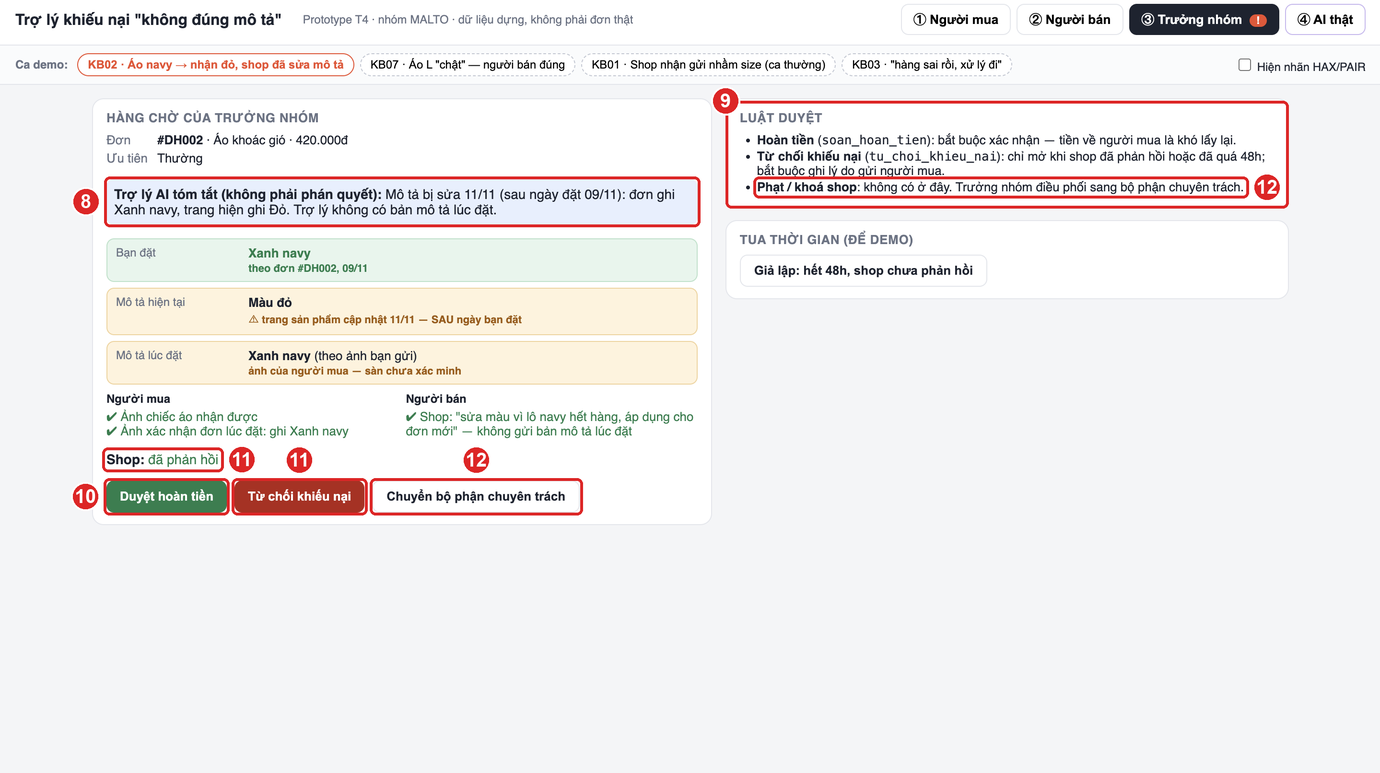
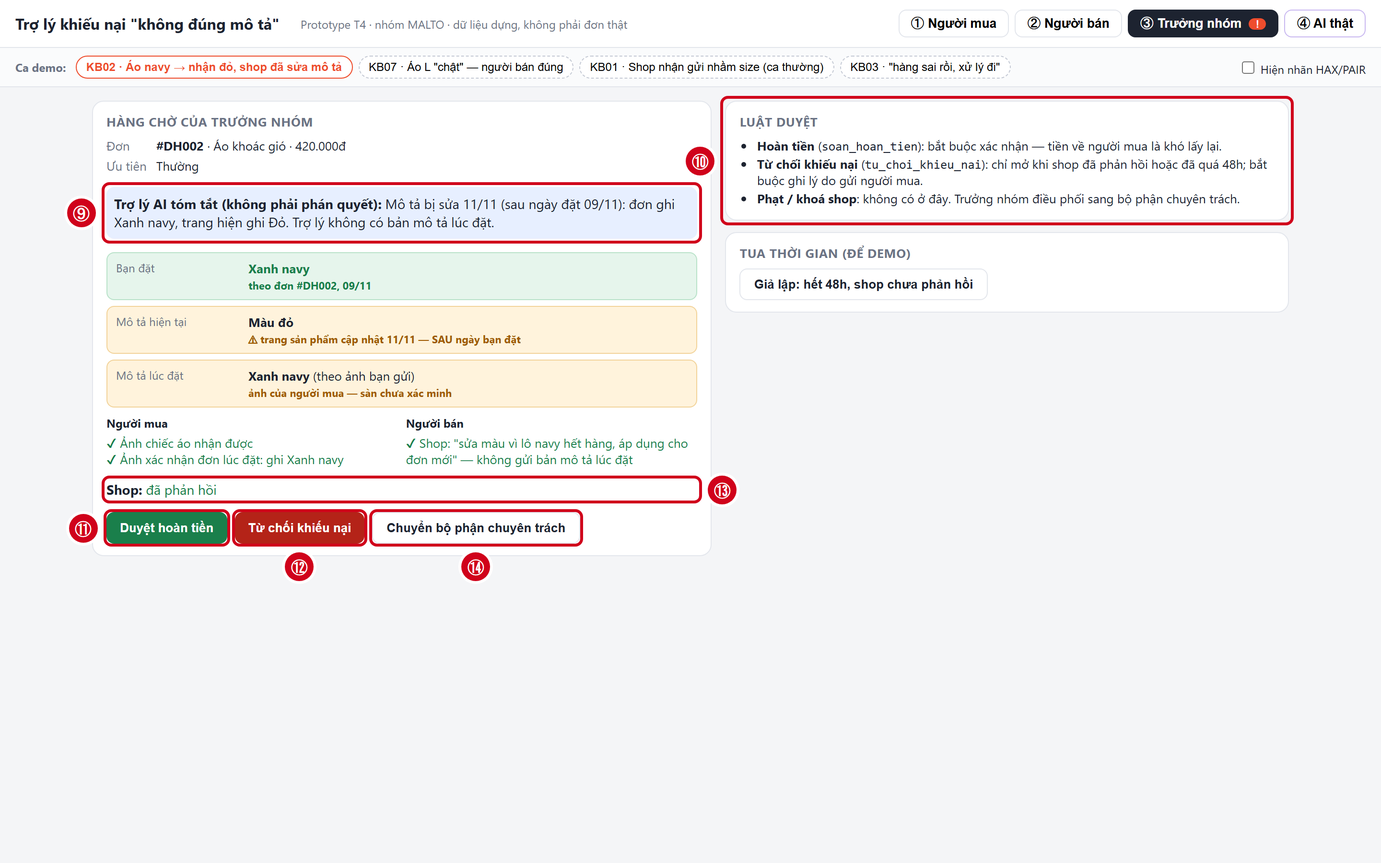
Commit

Changed region(s): [[0.0, 0.0, 0.9896, 0.6824]]

diff --git a/prototype/prototype_linh.html b/prototype/prototype_linh.html
@@ -580,10 +580,12 @@ const evl=a=>a.length?a.map(([t,v])=>`<div class="${v?'ok':'no'}">${v?'✔':'✘
 function render(){
   const box=$("#msgs"), prevScroll=box.scrollTop;
   box.innerHTML=S.msgs.length?"":`<div class="m sys">Chọn một ca ở thanh trên, hoặc gõ tin nhắn để thử ca lạ.<br>Bạn đang trò chuyện với <b>trợ lý AI</b>; luôn có nút <b>Gặp nhân viên</b>.</div>`;
+  // Nút gắn với tin AI/người mua gần nhất — dòng hệ thống ("tin đã tới shop"...) không làm mất nút
+  let chipIdx=-1; for(let i=S.msgs.length-1;i>=0;i--){ if(S.msgs[i].from!=="sys"){ chipIdx=i; break; } }
   S.msgs.forEach((m,i)=>{
     const d=document.createElement("div"); d.className="m "+m.from;
     d.innerHTML=(m.from==="ai"?'<div class="who">Trợ lý AI</div>':"")+m.html+(m.hax?`<span class="hax">${m.hax}</span>`:"");
-    if(m.chips && i===S.msgs.length-1){
+    if(m.chips && i===chipIdx){
       const c=document.createElement("div"); c.className="chips";
       m.chips.forEach(([l,f],j)=>{const b=document.createElement("button");b.className="chip"+(j>0?" sec":"");b.textContent=l;b.onclick=f;c.appendChild(b)});
       d.appendChild(c);

diff --git a/spec.md b/spec.md
@@ -45,7 +45,7 @@
 | Mã | Tình huống | Lớp | Nhãn rủi ro |
 |---|---|---|---|
 | KB01 | Shop thừa nhận giao nhầm size, AI hứa đã hoàn | ① | Sửa được |
-| **KB02** | **Shop sửa mô tả sau khi bán** | ④ | **Không chấp nhận được** |
+| **KB02** | **Shop sửa mô tả sau khi bán** | ① + ④ | **Không chấp nhận được** |
 | KB03 | Tin nhắn cụt: "hàng sai rồi" | ② | Sửa được |
 | KB04 | Tranh chấp dung tích nồi chiên 6 lít | ① | Sửa được |
 | KB05 | Khách doạ bóc phốt để ép hoàn ngay | ④ | Không chấp nhận được |
@@ -70,7 +70,7 @@
 | | |
 |---|---|
 | **Tin người dùng** | "Đơn #DH002 tôi đặt áo xanh navy, nhận lại áo đỏ. Giờ shop sửa mô tả thành màu đỏ rồi, sao lại bảo giao đúng?" |
-| **Lớp & nhãn** | ④ · Không chấp nhận được |
+| **Lớp & nhãn** | ① + ④ · Không chấp nhận được. Gốc lỗi là lớp ① (nguồn sự thật: mô tả hiện tại ≠ mô tả lúc đặt); nhãn "không chấp nhận được" đến từ lớp ④ (hậu quả là quyết định tiền khó đảo). |
 | **AI có thể sai thế nào** | AI lấy mô tả HIỆN TẠI (màu đỏ) làm bằng chứng rằng mô tả lúc ĐẶT cũng là đỏ; suy luận shop đúng và gọi `tu_choi_khieu_nai`. Tool này đóng khiếu nại, tiền về người bán, khó đảo ngược; nguồn lịch sử lúc mua không có trong các tool được cấp. |
 | **Sản phẩm tốt nên làm gì** | Tách ba thông tin: khách đặt xanh navy (theo đơn); mô tả hiện tại đỏ; mô tả khi đặt chưa xác minh. Không hoàn hay từ chối khiếu nại. Giải thích thiếu dữ liệu gốc, cho bổ sung bằng chứng hoặc xác nhận chuyển hồ sơ qua `chuyen_truong_nhom`; tạo cơ hội người bán giải trình. |
 | **Bằng chứng đối chiếu** | Fixture KB02: #DH002, áo khoác gió 420.000đ; đặt 09/11/2026 (xanh navy), mô tả đổi 11/11, nhận 12/11 (đỏ). Đây là sự thật do người thiết kế đặt ra, KHÔNG phải dữ liệu AI đã truy xuất. Track T4 > Hard tests "mô tả đã sửa"; Data & fixture > `tu_choi_khieu_nai` và thiếu tool lịch sử. |
@@ -174,9 +174,9 @@
 
 | Nguyên tắc | Câu chữ hoặc vị trí trên màn hình | Vì sao phù hợp |
 |---|---|---|
-| **G11** — Làm rõ vì sao hệ thống làm vậy | Thẻ đối chiếu ba dòng, đặc biệt dòng "Mô tả lúc đặt: chưa xác minh" | Người dùng thấy căn cứ và chỗ thiếu, nên hiểu vì sao AI không kết luận. Khớp với lỗi ngữ cảnh. |
-| **G10** — Thu hẹp phạm vi khi không chắc | Câu "mình sẽ không tự hoàn tiền hay đóng khiếu nại" và nhãn "Hồ sơ không bị đóng" | AI tự giới hạn việc mình làm khi thiếu dữ liệu, tránh gọi `tu_choi_khieu_nai` hoặc `soan_hoan_tien` sai. |
-| **G16** — Cho biết hậu quả hành động của người dùng | Màn hình xác nhận "Hồ sơ gồm… Xác nhận chuyển?" kèm nút Quay lại | Người mua biết bấm là gì và vẫn huỷ được. Hợp với lựa chọn chuyển người có xác nhận. |
+| **G11** — Làm rõ vì sao hệ thống làm vậy | Thẻ đối chiếu ba dòng, đặc biệt dòng "Mô tả lúc đặt: chưa xác minh" (Ảnh #1 ⑤) | Người dùng thấy căn cứ và chỗ thiếu, nên hiểu vì sao AI không kết luận. Khớp với lỗi ngữ cảnh. |
+| **G10** — Thu hẹp phạm vi khi không chắc | Câu "mình sẽ không tự hoàn tiền hay đóng khiếu nại" (nhãn đầu chat, Ảnh #1 ①) và nhãn "Hồ sơ không bị đóng" (Ảnh #1 ⑤) | AI tự giới hạn việc mình làm khi thiếu dữ liệu, tránh gọi `tu_choi_khieu_nai` hoặc `soan_hoan_tien` sai. |
+| **G16** — Cho biết hậu quả hành động của người dùng | Màn hình xác nhận "Hồ sơ gồm… Xác nhận chuyển?" kèm nút Quay lại (Ảnh #3 ⑮) | Người mua biết bấm là gì và vẫn huỷ được. Hợp với lựa chọn chuyển người có xác nhận. |
 
 **Lỗi không thể sửa bằng câu chữ**
 
@@ -199,7 +199,7 @@
 | **Người bán thấy gì** | Khi khiếu nại chính thức được ghi nhận: mã đơn #DH007, nội dung khiếu nại, size đặt hàng, bằng chứng liên quan và trạng thái "Chờ phản hồi". Người bán có thể bổ sung bảng size lúc mua, ảnh sản phẩm hoặc giải trình về kích thước. Không hiển thị số điện thoại, địa chỉ hay thông tin riêng tư không cần thiết của người mua. Người bán được phản hồi trước khi có quyết định ảnh hưởng đến tiền hàng. |
 | **Ai được báo & khi nào** | **Người mua:** ngay sau khi hệ thống ghi nhận yêu cầu hoặc bằng chứng thành công. **Người bán:** khi hồ sơ khiếu nại chính thức được mở, hạn phản hồi giả lập 48 giờ. **Trưởng nhóm:** chỉ nhận hồ sơ khi `chuyen_truong_nhom` thực hiện thành công. Hết hạn mà người bán chưa phản hồi: hồ sơ được đánh dấu cần xem xét tiếp, không tự động kết luận người bán sai. *Thông báo cho người bán là chức năng giao diện/quy trình giả lập, không phải tool có sẵn trong đề.* |
 | **Hạn yêu cầu trả hàng** | Chính sách giả lập: 7 ngày kể từ ngày nhận. Nhận 11/11/2026 → hạn **23:59 ngày 18/11/2026**; tại 13/11 hiển thị "còn 5 ngày". Nếu chưa có yêu cầu chính thức, hiển thị "Chưa gửi yêu cầu trả hàng/hoàn tiền". Bổ sung bằng chứng hoặc chuyển nhân viên **không** đồng nghĩa với đã nộp yêu cầu đúng hạn. |
-| **Loại lỗi & cơ chế sửa** | **Lỗi hệ thống:** AI tin hoàn toàn lời khiếu nại và gọi `soan_hoan_tien` dù chưa xác minh được sai lệch kích thước, gây thiệt hại cho người bán. **Lỗi ngữ cảnh:** AI nhầm "khách mặc chật" với "shop giao sai size" — cảm giác vừa vặn và việc đáp ứng mô tả là hai vấn đề khác nhau.<br>**Cơ chế sửa:** AI nêu rõ dữ liệu đã biết và chưa xác minh, xin bằng chứng phù hợp, cho người bán phản hồi, không tự hoàn tiền hoặc bác khiếu nại, chuyển nhân viên khi tranh chấp chưa giải quyết. |
+| **Loại lỗi & cơ chế sửa** | **Loại lỗi: người dùng (diễn đạt).** Người mua nói một *cảm nhận* ("mặc chật") như một *sự thật* ("shop giao sai size"). Dữ liệu không thiếu, đơn và bảng size đều có; cái thiếu là một con số đo được. Nếu AI tin nguyên câu đó và gọi `soan_hoan_tien` thì lỗi người dùng biến thành **lỗi hệ thống** (AI sai), và người bán đúng chịu thiệt.<br>**Cách nói:** không bảo người mua sai, mà nói "mặc chật có nhiều lý do (form áo, số đo người mặc)", rồi chỉ đúng một phép đo cần làm: nách–nách, AI nhân 2.<br>**Cách sửa:** đổi input chứ không đổi kết luận: nút "Gửi ảnh tem + số đo", và nút "Số đo của mình khác" nếu khách đo lại. Bằng chứng mới vào thẻ đối chiếu với nhãn "người mua tự đo, trợ lý chưa xác minh". Trợ lý không hoàn và cũng không từ chối; vẫn tranh chấp thì chuyển nhân viên. |
 
 **Phân tích lựa chọn phương án UX**
 
@@ -224,6 +224,16 @@
 | **Rủi ro còn lại** | AI không có công cụ xác minh kích thước thực tế hoặc tính xác thực của bằng chứng. Đơn và tem đều ghi L không chứng minh áo đúng bảng size. Dù AI giải thích rõ ràng, nếu hệ thống vẫn cho phép gọi `soan_hoan_tien` khi chưa đủ căn cứ, người bán vẫn có nguy cơ bị hoàn tiền oan. |
 | **Thiết kế xử lý** | Chặn AI tự gọi `soan_hoan_tien` khi kích thước thực tế chưa được xác minh. Lưu bằng chứng và trạng thái kiểm chứng riêng biệt; người mua bổ sung ảnh đo, người bán cung cấp bảng size và phản hồi. Vẫn tranh chấp thì dùng `chuyen_truong_nhom`. Chỉ hoàn tiền sau khi người có thẩm quyền phê duyệt theo §4. Chưa đủ căn cứ thì giữ trạng thái chờ xác minh, không tự động hoàn tiền hoặc từ chối khiếu nại. |
 
+### Loại lỗi quyết định cách nói và cách sửa
+
+Ba loại lỗi khác nhau ở **ai đang thiếu gì**, nên câu chữ và đường sửa cũng khác. Nói nhầm loại sẽ gây hại: đổ cho người dùng một lỗi của hệ thống thì mất niềm tin; nhận lỗi hệ thống cho một ca thiếu dữ liệu thì người dùng tưởng AI sẽ tự sửa được.
+
+| Loại lỗi | Ca trong bài | Ai đang thiếu gì | Cách nói | Cách sửa (trên màn hình) |
+|---|---|---|---|---|
+| **Ngữ cảnh** — dữ liệu thiếu hoặc đã đổi, không do ai trong cuộc chat | KB02: mô tả bị sửa 11/11, trợ lý không có bản lưu lúc đặt | **Hệ thống** thiếu nguồn | Gọi tên chỗ thiếu, không xin lỗi chung chung: *"Mình chưa có bản mô tả lúc bạn đặt nên chưa thể kết luận ai đúng."* | Thẻ đối chiếu ghi "Mô tả lúc đặt: **chưa xác minh**". Xin nguồn thay thế từ **cả hai bên** (ảnh của người mua, bản mô tả của shop). Chặn `tu_choi_khieu_nai` cho tới khi shop phản hồi. |
+| **Người dùng** — diễn đạt thiếu hoặc nhầm | KB07: "mặc chật" được nói thành "giao sai size". KB03: "hàng sai rồi" không nói đơn nào. Nhầm ảnh, nhầm đơn. | **Người dùng** thiếu một thông tin cụ thể | Không bảo người dùng sai. Hỏi **đúng một** thứ: *"Bạn đang muốn khiếu nại đơn hàng nào?"*, *"đo nách–nách khi đặt áo phẳng (mình sẽ nhân 2)"*. | Sửa dễ, không phạt: nút "Không phải đơn này", "Mình gửi nhầm ảnh" (gỡ ảnh, thẻ quay về "chưa xác minh"), "Số đo của mình khác". |
+| **Hệ thống** — AI hoặc tool làm sai | AI đọc nhầm đơn; `chuyen_truong_nhom` hoặc `yeu_cau_bang_chung` không chạy được; AI hứa điều chưa có (KB01 "đã hoàn") | **Trợ lý** sai | Trợ lý nhận lỗi về mình và nói hồ sơ vẫn an toàn: *"Mình chưa chuyển được hồ sơ — lỗi ở phía mình. Hồ sơ của bạn vẫn giữ nguyên, chưa có quyết định tiền nào."* *(Câu thiết kế; prototype chỉ mô phỏng nhánh tool chạy thành công.)* | Chỉ báo "đã chuyển / đã gửi" **sau khi** tool trả kết quả thành công (Ảnh #1 ④). Mỗi hành động tự làm có dòng nhật ký và nút "Rút lại" (Ảnh #1 ⑧). Nút "Gặp nhân viên" luôn còn (Ảnh #1 ②). |
+
 ---
 
 ## §4. Mức tự chủ (chặng 4)
@@ -231,7 +241,7 @@
 > ⚠ **Tác động thật của tool:** `yeu_cau_bang_chung` gửi yêu cầu; `chuyen_truong_nhom` chuyển hồ sơ; `soan_hoan_tien` **thực sự hoàn tiền**; `tu_choi_khieu_nai` đóng khiếu nại và chuyển tiền cho shop; `phat_shop` có thể phạt/khoá shop. Không suy từ tên "soạn" rằng tool chỉ tạo bản nháp.
 
 **Cách nhóm hiểu ba mức**
-- **Tự làm:** AI gọi tool, không cần ai bấm; luôn có cách huỷ hoặc rút lại.
+- **Tự làm:** AI gọi tool, không cần nhân viên bấm. Điều kiện: **hoặc** rút lại được (`chuyen_truong_nhom` có nút "Rút lại"), **hoặc** không có tiền đi, sai thì rẻ, và rủi ro chính đã bị chặn bằng luật *trước khi* gửi (`yeu_cau_bang_chung`: tin đã tới thì không rút được, nhưng chỉ gửi khi đã rõ đơn — xem Tool 1/5).
 - **Cần người duyệt:** AI chỉ chuẩn bị hồ sơ và tóm tắt; trưởng nhóm là người bấm thực hiện. AI không bao giờ tự gọi tool này.
 - **Cấm:** AI không gọi, không đề xuất, không có nút trên màn hình; chỉ hướng người dùng sang nơi có thẩm quyền.
 
@@ -276,7 +286,7 @@
 
 | | |
 |---|---|
-| **Mức nhóm chọn** | **Cần trưởng nhóm duyệt.** AI không gọi tool này; AI chỉ chuẩn bị hồ sơ. Thêm **hàng duyệt nhanh** khi hệ thống thấy shop đã tự xác nhận lỗi trong chat đơn (KB01). |
+| **Mức nhóm chọn** | **Cần trưởng nhóm duyệt.** AI không gọi tool này; AI chỉ chuẩn bị hồ sơ. Thêm **hàng duyệt nhanh** khi shop đã tự xác nhận lỗi (KB01).<br>**Ai quyết "shop đã nhận lỗi":** không phải AI tự đánh giá. Tín hiệu là (a) shop bấm "Đồng ý trả hàng hoàn tiền" trong màn hình người bán, hoặc (b) một tin của **chính tài khoản shop** trong chat đơn. AI chỉ đính kèm **nguyên văn** tin đó vào hồ sơ và gắn cờ "đề xuất duyệt nhanh"; trưởng nhóm đọc nguyên văn trước khi bấm. Lời kể của người mua ("shop nhận rồi") không bao giờ đủ để vào hàng nhanh. Hàng nhanh chỉ đổi **thứ tự** trong hàng chờ, không bỏ bước duyệt và không mở sớm nút "Từ chối". |
 | **Chi phí nếu sai** | Người bán mất tiền và hàng: KB07 mất 280.000đ dù giao đúng size L. Tạo tiền lệ "cứ doạ là được hoàn" (KB05) — đúng nỗi đau người bán trong track: "khách doạ bóc phốt là sàn hoàn luôn". |
 | **Khả năng đảo ngược** | Khó: tiền đã về người mua, đòi lại phải qua khiếu nại ngược, thường không thành. |
 | **Chi phí nếu chờ người** | Người mua đúng phải chờ: KB01 shop đã nhận lỗi mà vẫn phải đợi nhân viên. Giảm bằng hàng duyệt nhanh. Yêu cầu đã nộp trong hạn nên chờ không làm người mua mất quyền. |
@@ -289,7 +299,7 @@
 
 | | |
 |---|---|
-| **Mức nhóm chọn** | **Cần trưởng nhóm duyệt**, kèm 2 luật: (1) nút chỉ mở khi shop đã phản hồi hoặc đã quá 48h; (2) bắt buộc ghi lý do gửi người mua, và người mua được gửi bằng chứng mới để mở lại. |
+| **Mức nhóm chọn** | **Cần trưởng nhóm duyệt**, kèm 2 luật: (1) nút chỉ mở khi shop đã phản hồi hoặc đã quá 48h, kể cả với hồ sơ ở hàng duyệt nhanh; (2) bắt buộc ghi lý do gửi người mua, và người mua được gửi bằng chứng mới để mở lại. |
 | **Chi phí nếu sai** | Người mua mất tiền và giữ hàng sai: KB02 mất 420.000đ, giữ áo đỏ dù đặt navy — vì AI tin mô tả hiện tại đã bị sửa. |
 | **Khả năng đảo ngược** | Khó: hồ sơ đóng, tiền đã về shop. |
 | **Chi phí nếu chờ người** | Người bán đúng (KB07) chờ tối đa 48h + thời gian duyệt mới nhận tiền. Chấp nhận được: tiền đang được sàn giữ, không mất. |
@@ -337,7 +347,7 @@
 | Lời doạ, cảm nhận ("mặc chật") không phải căn cứ | KB05, KB07 |
 | `yeu_cau_bang_chung` chỉ gửi khi đã xác định đúng đơn | KB03 |
 | `chuyen_truong_nhom` cần người mua xác nhận; chỉ báo "đã chuyển" sau khi thành công | KB06 |
-| Hàng duyệt nhanh khi hệ thống thấy shop đã xác nhận lỗi trong chat đơn | KB01 |
+| Hàng duyệt nhanh chỉ khi tín hiệu đến từ phía shop (nút "Đồng ý trả hàng" hoặc tin của tài khoản shop trong chat đơn, đính nguyên văn); không dựa trên lời kể của người mua hay đánh giá của AI | KB01, KB05 |
 
 ### Một mức tự chủ đã đổi lời hứa nào với người dùng
 - Nếu `soan_hoan_tien` ở mức tự làm, lời hứa sẽ là **"Trợ lý giải quyết khiếu nại cho bạn"** — hứa kết quả.
@@ -356,16 +366,21 @@
 | **Có gọi AI thật không?** | **Có, chỉ ở tab ④** (bonus), tách riêng để không ảnh hưởng luồng demo chính. Model `gpt-4.1-mini` qua OpenAI Chat Completions, structured output (JSON schema strict). Mỗi lượt gửi toàn bộ lịch sử chat + ngữ cảnh đơn dựng. Mức tự chủ được ép ở 2 lớp: (1) schema chỉ có 2 tool tự làm (`yeu_cau_bang_chung`, `chuyen_truong_nhom`) — tool tiền và phạt shop **không tồn tại** với model; (2) luật chặn phía server chạy sau model (chưa rõ đơn → chặn mọi tool; "chỉ trả lời"/"hướng dẫn" → chặn tool; `chuyen_truong_nhom` chờ khách bấm xác nhận). Tab ④ có thêm quyết định "Chỉ trả lời, không hành động" cho câu ngoài luồng (xin SĐT, hỏi hạn). API key để trong `.env` phía server, không tới trình duyệt, không ghi log, không commit. |
 | **Luồng demo bắt buộc** | **KB02** (mô tả đã sửa) đi hết 3 tab: người mua → shop phản hồi → trưởng nhóm duyệt. **KB07** (người bán đúng). Thêm KB01 (duyệt nhanh), KB03 (tin cụt) và ô chat tự do cho ca lạ. |
 
-**Bảng ghi chú ảnh chụp màn hình có đánh số**
+**Bảng ghi chú ảnh chụp màn hình có đánh số** *(mỗi số chỉ dùng một lần, ①–⑮ trên 3 ảnh; cả 3 ảnh là cùng một lượt bấm ca KB02)*
 
 | Ảnh / số | Màn hình / thành phần được chỉ tới | HAX / PAIR | Mức tự chủ thể hiện |
 |---|---|---|---|
-| **Ảnh #1** — [`anh1-nguoimua-KB02-danhso.png`](prototype/anh1-nguoimua-KB02-danhso.png)<br>Tab ① Người mua, ca KB02, bật nhãn HAX/PAIR | **①** Nhãn đầu chat "Trợ lý AI · không tự hoàn tiền, không tự đóng khiếu nại"<br>**②** Nút "Gặp nhân viên" luôn có ở góc chat<br>**③** Dòng hệ thống "Tin xin bằng chứng đã tới shop. Hạn phản hồi 48h."<br>**④** Tin AI "Đã chuyển thành công cho trưởng nhóm…" — chỉ hiện sau khi tool chạy xong<br>**⑤** Thẻ đối chiếu 3 dòng: "Mô tả hiện tại … SAU ngày bạn đặt", "Mô tả lúc đặt … theo ảnh bạn gửi — sàn chưa xác minh"<br>**⑥** Độ chắc "Chưa đủ căn cứ để xử lý. Hồ sơ không bị đóng." + thang 3 mức<br>**⑦** Dòng hạn "Hạn yêu cầu trả hàng: 19/11 — còn 6 ngày", tách khỏi trạng thái chờ | ① G1 · ② PAIR "đường lui" · ④ PAIR báo sau khi thành công · ⑤ G11 · ⑥ G2, G10 · ⑦ G2 | ③ `yeu_cau_bang_chung` **tự làm** (đơn đã rõ)<br>②④ `chuyen_truong_nhom` **tự làm sau khi khách xác nhận** |
-| **Ảnh #2** — [`anh2-truongnhom-KB02-danhso.png`](prototype/anh2-truongnhom-KB02-danhso.png)<br>Tab ③ Trưởng nhóm, ca KB02 | **⑧** "Trợ lý AI tóm tắt (không phải phán quyết)"<br>**⑨** Ô "Luật duyệt" bên phải<br>**⑩** Nút "Duyệt hoàn tiền" (bấm mới mở hộp xác nhận số tiền + cảnh báo "rất khó lấy lại")<br>**⑪** Nút "Từ chối khiếu nại" — chỉ mở vì dòng "Shop: đã phản hồi"<br>**⑫** Hàng nút không có "Phạt/khoá shop"; chỉ có "Chuyển bộ phận chuyên trách" | ⑧ G11 · ⑩ G16 · ⑪ G10 (hai bên cùng được nghe) | ⑩ `soan_hoan_tien` **cần trưởng nhóm duyệt**<br>⑪ `tu_choi_khieu_nai` **cần duyệt**, chỉ mở khi shop phản hồi / quá 48h<br>⑫ `phat_shop` **cấm** — không có nút |
+| **Ảnh #1** — [`anh1-nguoimua-KB02-danhso.png`](prototype/anh1-nguoimua-KB02-danhso.png)<br>Tab ① Người mua, KB02, ngay sau khi khách xác nhận chuyển nhân viên (shop chưa phản hồi), bật nhãn HAX/PAIR | **①** Nhãn đầu chat "Trợ lý AI · không tự hoàn tiền, không tự đóng khiếu nại"<br>**②** Nút "Gặp nhân viên" luôn có ở góc chat<br>**③** Dòng hệ thống "Tin xin bằng chứng đã tới shop. Hạn phản hồi 48h."<br>**④** Tin AI "Đã chuyển thành công cho trưởng nhóm…" — chỉ hiện sau khi tool chạy xong<br>**⑤** Thẻ đối chiếu 3 dòng, mỗi dòng ghi nguồn: "theo đơn", "cập nhật 11/11 — SAU ngày bạn đặt", "ảnh của người mua — sàn chưa xác minh" + nhãn trạng thái "Chưa đủ căn cứ để xử lý. Shop đang có 48h để phản hồi. Hồ sơ không bị đóng."<br>**⑥** Độ chắc: thang 3 mức bằng lời + lý do. Panel **cập nhật theo hồ sơ**: đã có 2 ảnh của khách (chưa xác minh), đang chờ shop. Khi shop phản hồi thì lên "Đủ căn cứ để chuyển duyệt — nhân viên quyết"; khi nhân viên quyết thì ghi "quyết định của người, không phải của trợ lý".<br>**⑦** Dòng hạn "Hạn yêu cầu trả hàng: 19/11 — còn 6 ngày" + "Yêu cầu đã nộp trong hạn — chờ xét không làm mất quyền", tách khỏi trạng thái chờ<br>**⑧** Nhật ký "Việc AI đã làm": mỗi dòng có nhãn mức (Tự làm / Chỉ đọc); `chuyen_truong_nhom` có nút **Rút lại** | ① G1 · ② PAIR "đường lui" · ③ G1 (nói rõ đã làm gì) · ④ PAIR báo sau khi thành công · ⑤ G11 · ⑥ G2, G10 · ⑦ G2 · ⑧ G9 (sửa/rút lại được) | ③ `yeu_cau_bang_chung` **tự làm** (đơn đã rõ)<br>②④⑧ `chuyen_truong_nhom` **tự làm sau khi khách xác nhận**, có hoàn tác "Rút lại" |
+| **Ảnh #2** — [`anh2-truongnhom-KB02-danhso.png`](prototype/anh2-truongnhom-KB02-danhso.png)<br>Tab ③ Trưởng nhóm, KB02, sau khi shop đã phản hồi | **⑨** "Trợ lý AI tóm tắt (không phải phán quyết)"<br>**⑩** Ô "Luật duyệt": hoàn tiền phải xác nhận; từ chối chỉ mở khi shop phản hồi/quá 48h, bắt buộc lý do; phạt/khoá shop không có ở đây<br>**⑪** Nút "Duyệt hoàn tiền" — bấm mới mở hộp xác nhận số tiền + cảnh báo "rất khó lấy lại"<br>**⑫** Nút "Từ chối khiếu nại" — trước khi shop phản hồi nút này bị khoá kèm dòng giải thích; bấm thì bắt buộc ghi lý do gửi người mua<br>**⑬** Dòng "Shop: đã phản hồi" — điều kiện mở ⑫<br>**⑭** Hàng nút không có "Phạt/khoá shop"; chỉ có "Chuyển bộ phận chuyên trách" | ⑨ G11 · ⑩ G11 (giải thích luật cho người duyệt) · ⑪ G16 · ⑫⑬ G10 + PAIR "hai bên cùng được nghe" · ⑭ Rubric riêng #5 | ⑪ `soan_hoan_tien` **cần trưởng nhóm duyệt**<br>⑫⑬ `tu_choi_khieu_nai` **cần duyệt**, chỉ mở khi shop phản hồi / quá 48h (kể cả hàng duyệt nhanh)<br>⑭ `phat_shop` **cấm** — không có nút |
+| **Ảnh #3** — [`anh3-xacnhan-KB02-danhso.png`](prototype/anh3-xacnhan-KB02-danhso.png)<br>Tab ① Người mua, KB02, lúc khách bấm "Chuyển nhân viên xem xét" | **⑮** Hộp xác nhận "Chuyển nhân viên xem xét? Hồ sơ gồm: đơn #DH002, 2 bằng chứng đã gửi, thẻ đối chiếu 3 dòng. Trợ lý **không** ra quyết định hoàn tiền hay từ chối" + nút "Quay lại" / "Xác nhận chuyển" | ⑮ G16 (cho biết hậu quả trước khi bấm) — đúng chỗ §3 KB02 trỏ tới | ⑮ `chuyen_truong_nhom` **tự làm sau khi khách xác nhận** |
 
-![Ảnh #1 — tab Người mua, KB02, đánh số ①–⑦](prototype/anh1-nguoimua-KB02-danhso.png)
+**Nhãn tím trên Ảnh #1** (bật bằng ô "Hiện nhãn HAX/PAIR") ghi nguyên tắc ngay trên màn hình: "G9 · sửa được" gắn với tin AI có nút "Mình gửi nhầm ảnh" (gỡ ảnh khỏi hồ sơ) và "G9 · rút lại được" gắn với nhật ký ⑧. "G15 · nói rõ còn thiếu gì" gắn với ô "Bằng chứng hai phía" (dòng ✘ "còn thiếu: Bản mô tả lúc đặt…" phía shop). "G1 · Luật AI Đ11" gắn với ①.
 
-![Ảnh #2 — tab Trưởng nhóm, KB02, đánh số ⑧–⑫](prototype/anh2-truongnhom-KB02-danhso.png)
+![Ảnh #1 — tab Người mua, KB02, đánh số ①–⑧](prototype/anh1-nguoimua-KB02-danhso.png)
+
+![Ảnh #2 — tab Trưởng nhóm, KB02, đánh số ⑨–⑭](prototype/anh2-truongnhom-KB02-danhso.png)
+
+![Ảnh #3 — hộp xác nhận chuyển nhân viên, KB02, đánh số ⑮](prototype/anh3-xacnhan-KB02-danhso.png)
 
 **Ảnh phụ** (không đánh số, minh hoạ thêm):
 
@@ -379,9 +394,9 @@
 | [`kb07-shop-owner.png`](prototype/kb07-shop-owner.png) | KB07 phía người bán: bảng size, ảnh khách gửi, sàn đề nghị shop gửi ảnh đóng gói |
 | [`kb07-staff.png`](prototype/kb07-staff.png) | KB07 phía trưởng nhóm: bằng chứng hai phía, tóm tắt AI không phán quyết |
 
-**Bằng chứng lời gọi AI thật ở quyết định chính (bonus):** [`anh3-bonus.png`](prototype/anh3-bonus.png) — tab ④, model `gpt-4.1-mini-2025-04-14`, ngữ cảnh KB07. Lượt 1 khách kêu "áo L mặc chật, hoàn tiền" → model trả **Xin thêm bằng chứng** · Chưa đủ căn cứ, không gọi tool. Lượt 2 khách gửi ảnh tem L + số đo nách–nách 53 cm → model trả **Chuyển nhân viên**, tự tính 53×2 = 106 cm nằm trong bảng size L "theo bạn gửi", gọi `chuyen_truong_nhom` (mức Tự làm) và chỉ chuyển sau khi khách bấm xác nhận. Không có API key trong ảnh hay trong mã phía trình duyệt.
+**Bằng chứng lời gọi AI thật ở quyết định chính (bonus):** [`anh4-bonus-ai-that.png`](prototype/anh4-bonus-ai-that.png) — tab ④, model `gpt-4.1-mini-2025-04-14`, ngữ cảnh KB07. Lượt 1 khách kêu "áo L mặc chật, hoàn tiền" → model trả **Xin thêm bằng chứng** · Chưa đủ căn cứ, không gọi tool. Lượt 2 khách gửi ảnh tem L + số đo nách–nách 53 cm → model trả **Chuyển nhân viên**, tự tính 53×2 = 106 cm nằm trong bảng size L "theo bạn gửi", gọi `chuyen_truong_nhom` (mức Tự làm) và chỉ chuyển sau khi khách bấm xác nhận. Không có API key trong ảnh hay trong mã phía trình duyệt.
 
-![Ảnh #3 — AI thật, KB07: xin bằng chứng → chuyển nhân viên](prototype/anh3-bonus.png)
+![Ảnh bonus — AI thật, KB07: xin bằng chứng → chuyển nhân viên](prototype/anh4-bonus-ai-that.png)
 
 **Quyết định thiết kế: độ chắc / bằng chứng / điều khiển tự chủ**
 
@@ -389,7 +404,7 @@
 |---|---|---|---|
 | Cách hiện độ chắc: % tin cậy / thang bằng lời | Thang 3 mức bằng lời: "Thiếu thông tin" · "Chưa đủ căn cứ" · "Đủ căn cứ để chuyển duyệt", luôn kèm câu "Hồ sơ không bị đóng" (Ảnh #1 ⑥) | Người mua và trưởng nhóm đọc ra ngay bước tiếp theo; mức cao nhất cũng chỉ là "đủ để **chuyển duyệt**", không phải "đủ để hoàn". | % dễ bị đọc là xác suất thắng kiện ("80% được hoàn") và AI không có cơ sở để tính con số đó. |
 | Cách hiện bằng chứng: đoạn văn giải thích / thẻ đối chiếu tách nguồn | Thẻ đối chiếu, mỗi dòng ghi nguồn: "theo đơn", "đã sửa 11/11", "chưa xác minh", "theo ảnh bạn gửi" (Ảnh #1 ⑤) | Chỉ ra đúng chỗ thiếu của lỗi ngữ cảnh KB02/KB07; cùng một thẻ dùng lại ở tab trưởng nhóm. | Đoạn văn trộn nguồn đã xác minh với lời kể, chính là lỗi KB02 (lấy mô tả hiện tại làm căn cứ). |
-| Điều khiển tự chủ: chỉ nói bằng lời / cảnh báo rồi vẫn cho làm / nhãn mức + khoá nút | Nhãn mức (Tự làm / Cần duyệt / Cấm) trên từng dòng nhật ký tool; hộp xác nhận cho chuyển người và hoàn tiền; nút từ chối khoá theo luật 48h; không có nút phạt (Ảnh #1 ②③④, Ảnh #2 ⑨⑩⑪⑫) | Mức tự chủ §4 nằm ở thiết kế màn hình, không phụ thuộc vào câu chữ AI. | Chỉ nói bằng lời thì không chặn được khi AI sai; cảnh báo xong vẫn cho bấm thì người duyệt vội vẫn đóng hồ sơ trước khi nghe shop. |
+| Điều khiển tự chủ: chỉ nói bằng lời / cảnh báo rồi vẫn cho làm / nhãn mức + khoá nút | Nhãn mức (Tự làm / Cần duyệt / Cấm) trên từng dòng nhật ký tool; hộp xác nhận cho chuyển người và hoàn tiền; nút từ chối khoá theo luật 48h; không có nút phạt (Ảnh #1 ②③④⑧, Ảnh #2 ⑩⑪⑫⑬⑭, Ảnh #3 ⑮) | Mức tự chủ §4 nằm ở thiết kế màn hình, không phụ thuộc vào câu chữ AI. | Chỉ nói bằng lời thì không chặn được khi AI sai; cảnh báo xong vẫn cho bấm thì người duyệt vội vẫn đóng hồ sơ trước khi nghe shop. |
 
 ---
 
@@ -409,6 +424,7 @@
 
 | | |
 |---|---|
+| **Hình thức demo** | Nhóm **xung phong demo trước lớp** trong khối demo 30 phút. |
 | **Ca lạ được đưa ra** | Tin nhắn cụt, ngắn, không liên quan tới nội dung khiếu nại, ví dụ xin số điện thoại của shop ("cho xin sđt shop"). |
 | **Prototype xử lý thế nào** | Coi đây là yêu cầu **ngoài phạm vi** (KB08, lớp ③): AI **không cung cấp** số điện thoại/địa chỉ và **không gọi tool nào**. Lời AI: *"Mình không cung cấp được số điện thoại hay địa chỉ cá nhân của shop — để bảo vệ cả hai bên. Bạn nhắn shop ngay trong chat của đơn; tin nhắn ở đó cũng được dùng làm bằng chứng nếu cần."* Kèm 2 nút: "Mở chat với shop (qua sàn)" và "Chuyển nhân viên" (đường lui).<br>Tin cụt không nói đơn nào (như "hàng sai rồi"): AI không đoán, hỏi lại đúng một câu "Bạn đang muốn khiếu nại đơn hàng nào?" kèm danh sách đơn gần đây (G10); không gửi gì cho shop khi chưa rõ đơn.<br>Tab ④ (AI thật): cùng câu xin SĐT, model trả quyết định "Chỉ trả lời, không hành động", không có tool nào. |
 | **Nhóm có đổi ý không?** | Không. Ca này nằm trong việc "KHÔNG làm" số 3 ở §1 và đã có luật ở §4 ("chưa rõ đơn thì không gửi `yeu_cau_bang_chung`"), nên prototype xử lý đúng mức tự chủ đã đặt mà không cần đổi. |

diff --git a/README.md b/README.md
@@ -19,9 +19,10 @@ spec.md                 bài nộp §1–§7
 prototype/
 ├── index.html          prototype (HTML/CSS/JS một file)
 ├── server.mjs          server nhỏ cho tab ④ AI thật (bonus)
-├── anh1-…-danhso.png   Ảnh #1 có đánh số ①–⑦ (tab Người mua, KB02)
-├── anh2-…-danhso.png   Ảnh #2 có đánh số ⑧–⑫ (tab Trưởng nhóm, KB02)
-├── anh3-bonus.png      bằng chứng lời gọi AI thật (KB07)
+├── anh1-…-danhso.png   Ảnh #1 có đánh số ①–⑧ (tab Người mua, KB02)
+├── anh2-…-danhso.png   Ảnh #2 có đánh số ⑨–⑭ (tab Trưởng nhóm, KB02)
+├── anh3-…-danhso.png   Ảnh #3 có đánh số ⑮ (hộp xác nhận chuyển nhân viên, KB02)
+├── anh4-bonus-ai-that.png  bằng chứng lời gọi AI thật (KB07)
 └── kb02-*, kb07-*      ảnh phụ từng màn hình
 ```
 
